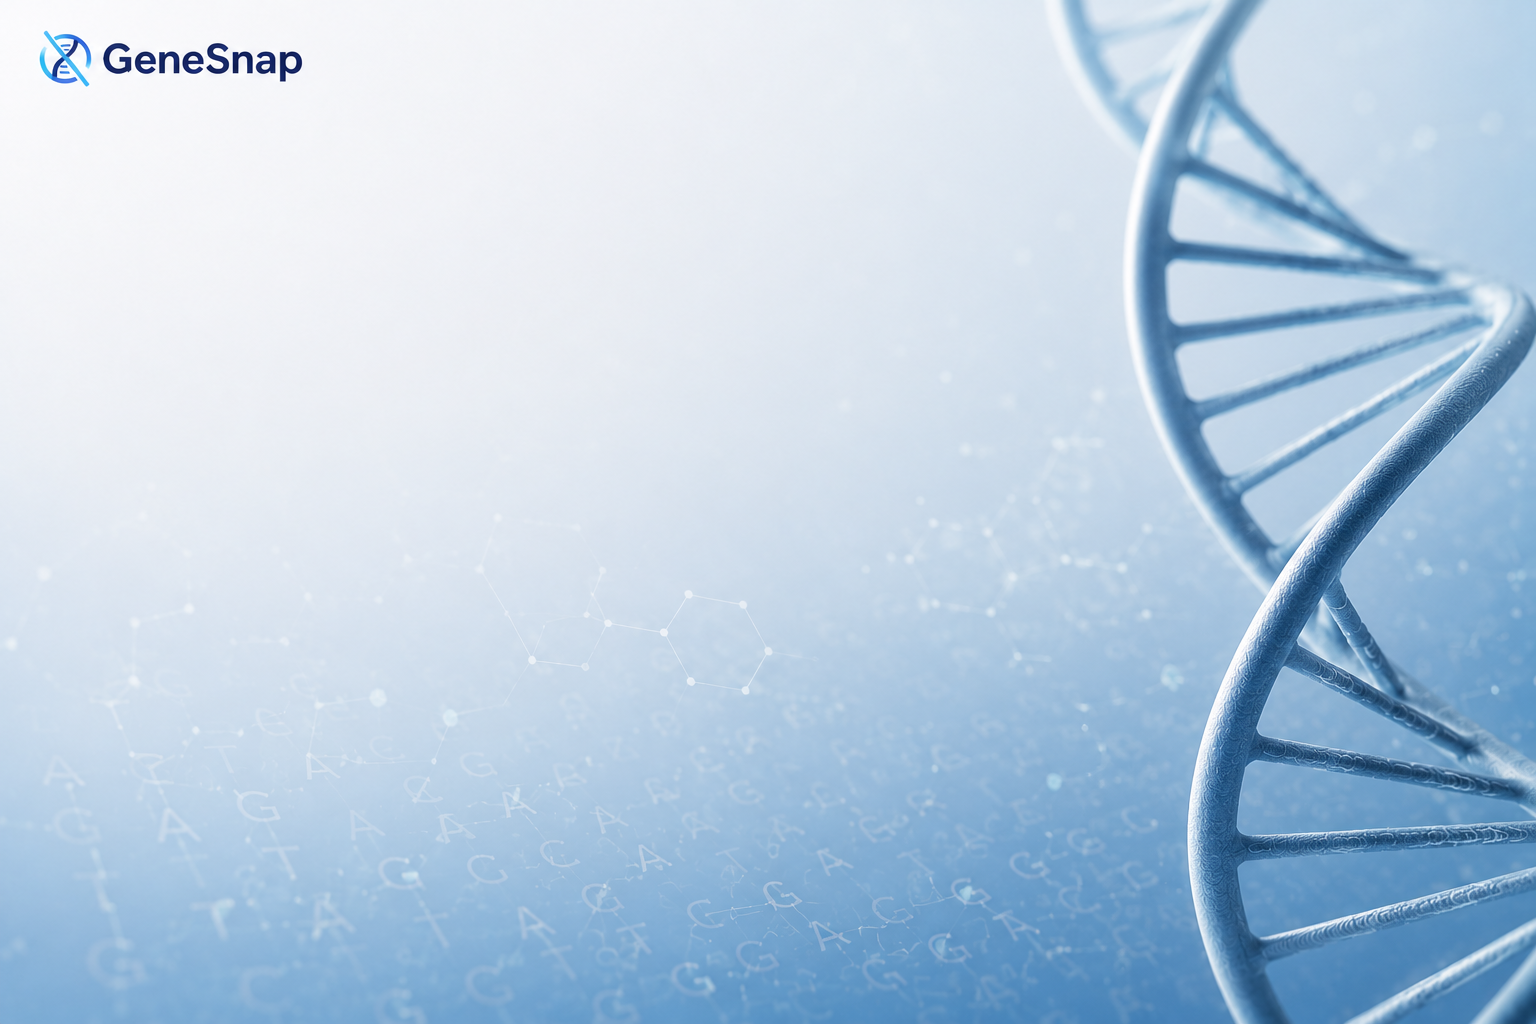
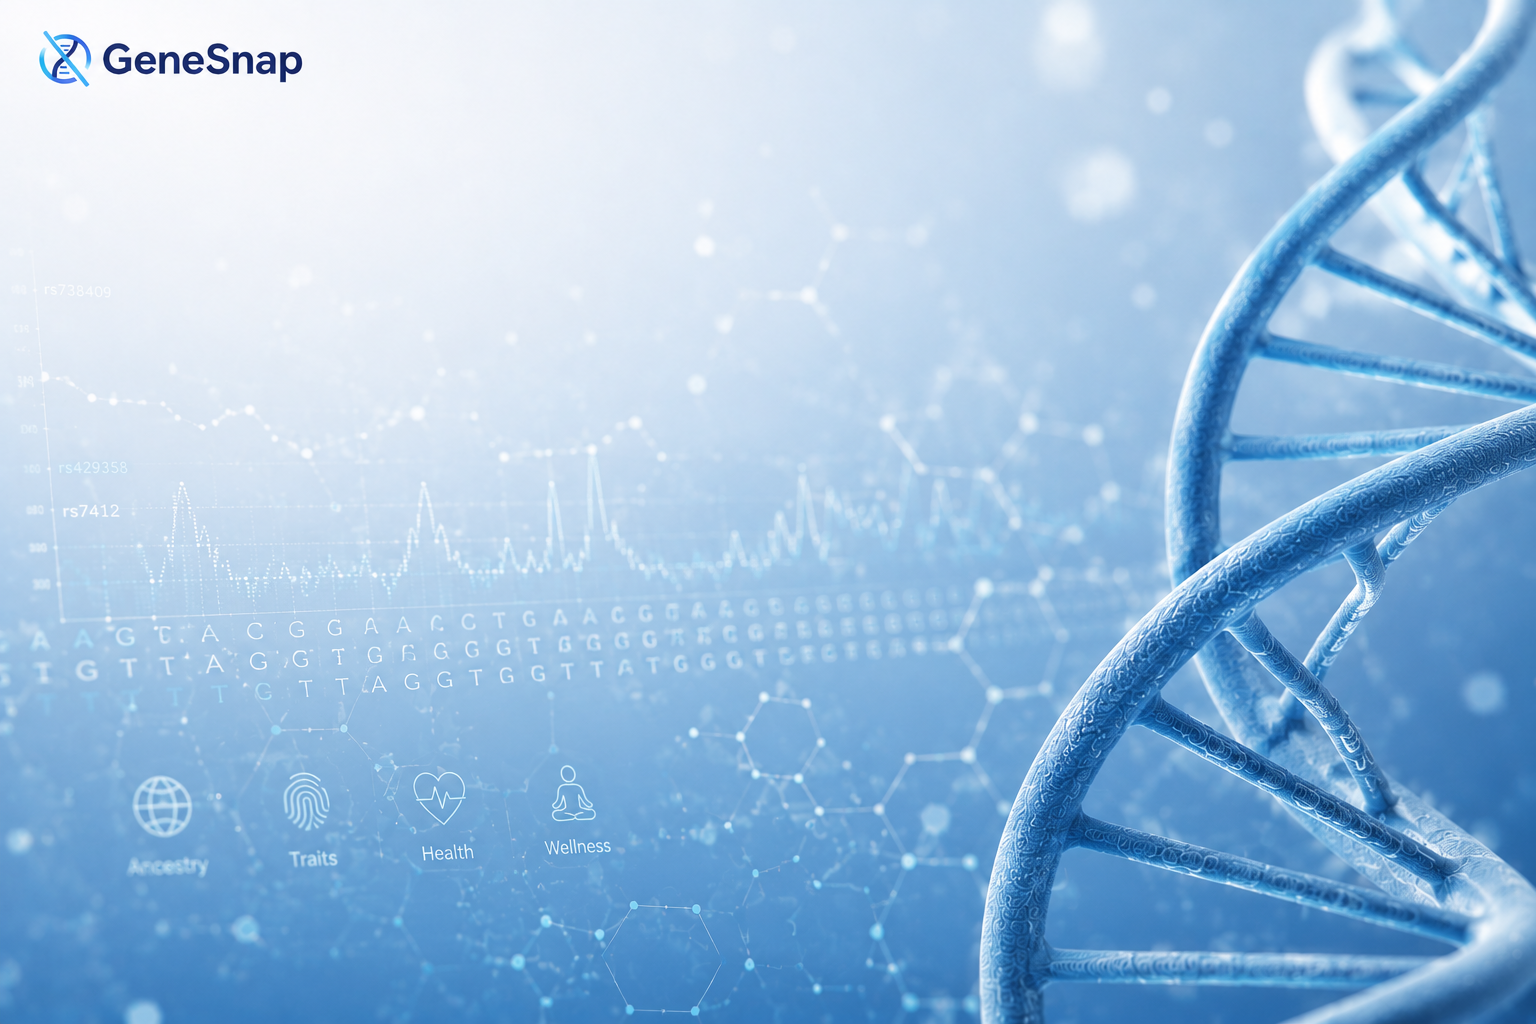
update images

diff --git a/src/content/blog/01_first_post.md b/src/content/blog/01_first_post.md
@@ -2,7 +2,7 @@
 title: 'Why I Finally Made a Site'
 description: 'On the tension between writing for yourself and writing for an audience you keep imagining.'
 pubDate: '2026-04-25'
-heroImage: '../../assets/first_post/first_post.jpg'
+heroImage: '../../assets/first_post/first_post.png'
 ---
 
 I've started personal sites three times before this one. Each time I spent most of the energy on the setup and very little on the writing, which is the thing that was supposed to matter.